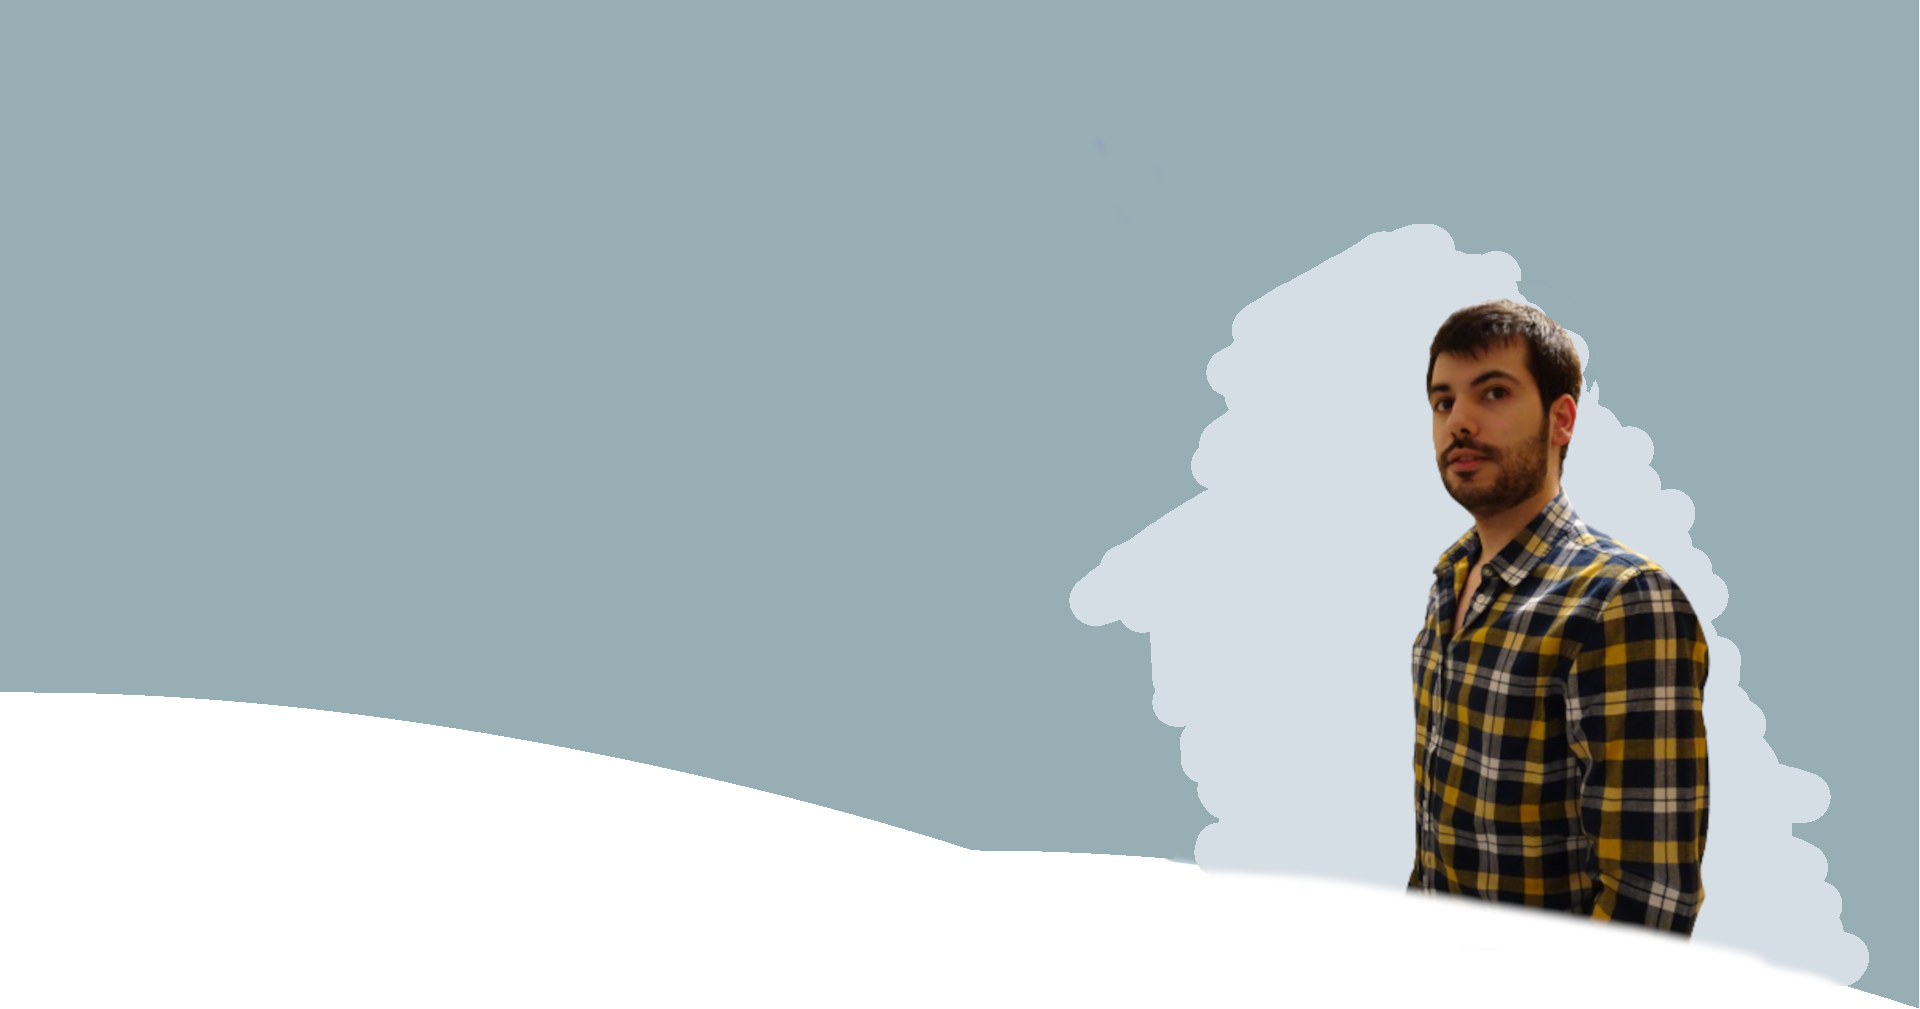
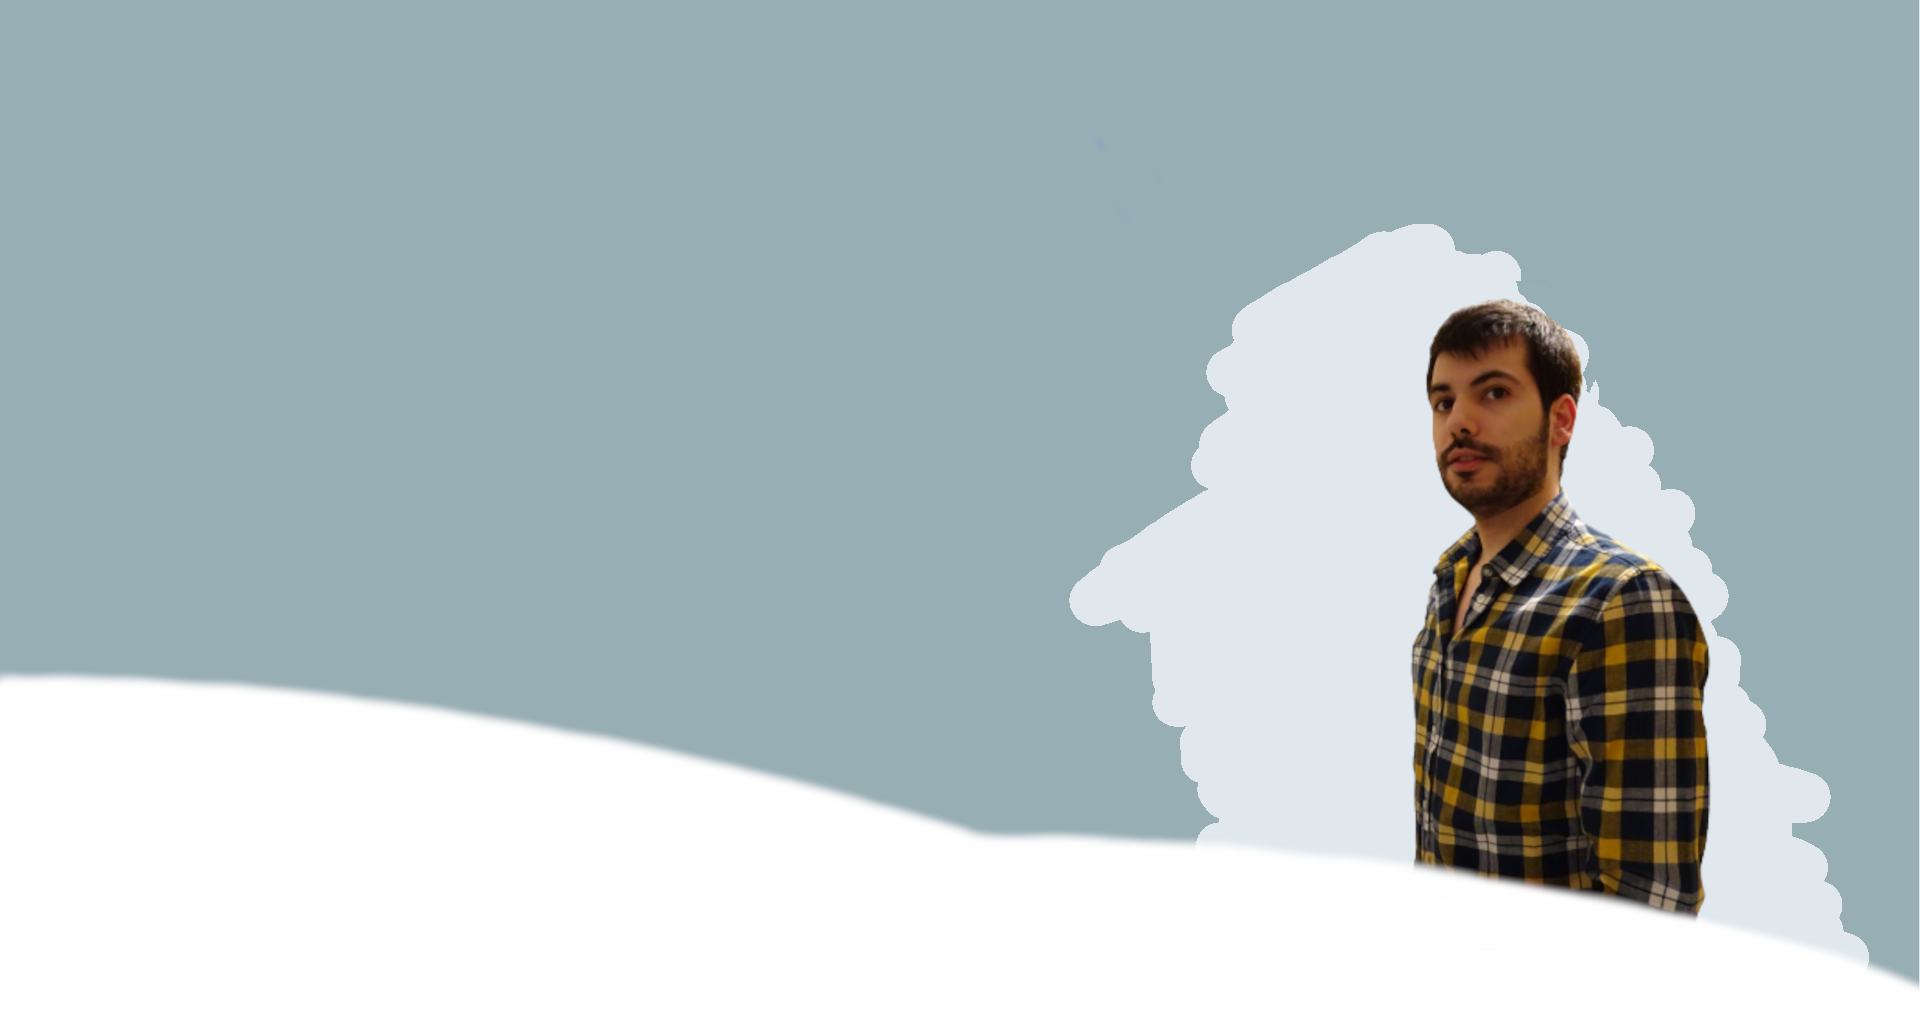
arreglados problemas color al cambiar de pc

Changed region(s): [[0.0, 0.6452, 1.0, 1.0]]

diff --git a/src/components/layouts/home/About.jsx b/src/components/layouts/home/About.jsx
@@ -66,21 +66,18 @@ class About extends Component {
     render() {
         return (
 
-            <div className="section slide-personal-Intro-second slide-dark bg-white">
-                <section className="testimonial s1 shape-am" id="testimonial">
-                </section>
-
-                <section className="profile s1">
-                    <div className="container" id="about">
+            <div className="tf-modal-content" >
+                <section className="profile s1 position-relative" id="about">
+                    <div className="container" >
                         <div className="background-white">
                             <div className="d-lg-flex">
                                 <div className="col-left">
                                     <div className="featured-post animate-element wow delay5 fadeInUp" data-wow-delay="0.5s">
-                                        <img style={{width: '60%', margin: '100px', alignContent: 'center'}} src="images/section/03.png" alt="images"/>
+                                        <img style={{width: '60%'}} src="images/section/03.png" alt="images"/>
                                     </div>
                                 </div>
                                 <div className="col-right">
-                                    <div className="flat-spacer" data-desktop="105" data-mobile="50" data-smobile="50"></div>
+                                    <div className="flat-spacer" data-desktop="55" data-mobile="20" data-smobile="20"></div>
                                     <div className="flat-title t1">
                                         <div className="animate-element wow delay5 fadeInDown" data-wow-delay="0.5s">
                                             <h4 className="sub-title mg-b22">About Me</h4>
@@ -90,13 +87,6 @@ class About extends Component {
                                                 My expertise is around the design of secure architectures with special focus on Identity and Access Management and API design and security. <br /><br />
                                                 {this.props.language}
                                             </p>
-                                        </div>
-                                        <div className="animate-element wow delay5 fadeInUp" data-wow-delay="0.5s">
-                                            <div className="fl-btn btn-general">
-                                                <Link to="#" className="f-w500 color-1 lt-sp07">Download CV</Link>
-                                            </div>
-                                        </div>
-                                        <div style={{height: 30}}>
                                         </div>
                                     </div>
                                 </div>

diff --git a/src/components/layouts/home/Header.jsx b/src/components/layouts/home/Header.jsx
@@ -15,9 +15,8 @@ class Header extends Component {
                 <div className="container">
                     <div className="flex-header d-flex justify-content-between align-items-center">
                         <div className="socials-list-hd s1 hv1">
-                            <Link to="#"><i className="fa fa-facebook" aria-hidden="true" /></Link>
-                            <Link to="#"><i className="fa fa-twitter" aria-hidden="true" /></Link>
-                            <Link to="#"><i className="fa fa-instagram" aria-hidden="true" /></Link>
+                            <Link to="#" style={{fontWeight: 'bold'}}>EN</Link>
+                            <Link to="#">ES</Link>
                         </div>
                         <div className="content-menu d-lg-flex">
                             <div className="nav-wrap">
@@ -51,3 +50,12 @@ class Header extends Component {
 }
 
 export default Header;
+
+
+/*
+                        <div className="socials-list-hd s1 hv1">
+                            <Link to="#"><i className="fa fa-facebook" aria-hidden="true" /></Link>
+                            <Link to="#"><i className="fa fa-twitter" aria-hidden="true" /></Link>
+                            <Link to="#"><i className="fa fa-instagram" aria-hidden="true" /></Link>
+                        </div>
+ */

diff --git a/public/stylesheet/style.css b/public/stylesheet/style.css
@@ -1521,15 +1521,20 @@ body.slide-menu-dark .header #mainnav .menu li a:hover {
 .profile.s1 {
     z-index: 99;
     position: relative;
-    padding: 100px 0;
+    padding: 150px 0 200px;
 }
+
 .profile.s1 .col-left {
     width: 49%;
+    padding-top: 150px;
+    padding-left: 80px;
 }
 .profile.s1 .col-right {
     width: 51%;
     padding-left: 23px;
 }
+
+/*
 .profile.s1 .background-white {
     background-color: #fbf7ff;
     padding: 40px 15px 0px 25px;
@@ -1539,6 +1544,20 @@ body.slide-menu-dark .header #mainnav .menu li a:hover {
     box-shadow: 0 0 30px 0 rgba(16, 32, 57, 0.05);
     margin-top: -470px;
 }
+ */
+
+.profile.s1 .background-white {
+    background-color: #ffffff;
+    padding: 40px 15px 0px 25px;
+
+    border-radius: 42px;
+    -webkit-box-shadow: 0 0 30px 0 rgba(16, 32, 57, 0.05);
+    -moz-box-shadow: 0 0 30px 0 rgba(16, 32, 57, 0.05);
+    box-shadow: 0 0 30px 0 rgba(16, 32, 57, 0.05);
+}
+
+
+
 .profile.s1 .fl-btn a {
     padding: 10px 39px 12px 38px;
     border: 1px solid #ffffff00;

diff --git a/src/components/layouts/home/Education.jsx b/src/components/layouts/home/Education.jsx
@@ -1,5 +1,6 @@
 import React, { Component } from 'react';
 import { TopEducation } from './education/index';
+import {Link} from "react-router-dom";
 
 class Education extends Component {
     render() {
@@ -11,6 +12,7 @@ class Education extends Component {
                             <h4 className="sub-title mg-b13">Educational qualification</h4>
                             <h2 className="title-section color-d12">Education &amp; Experience</h2>
                         </div>
+
                         <TopEducation />
                     </div>
                 </section>

diff --git a/public/stylesheet/responsive.css b/public/stylesheet/responsive.css
@@ -542,7 +542,7 @@
     .modal-content-footer {
         display: block;
     }
-    .experienced.s3 .background-inner.bg-s1, {
+    .experienced.s3 .background-inner.bg-s1 {
         margin-bottom: 100px;
     }
     .get-project.s4 {
